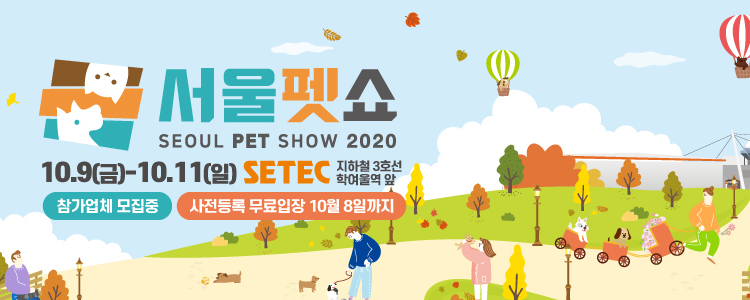
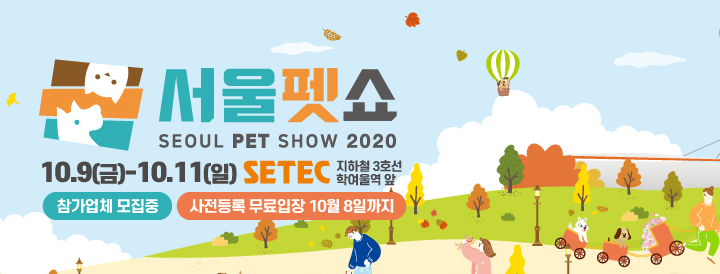
[#55] Enhance UI and modify hsv range 배너 이미지 좀 더 적절하게 교체했습니다.
이름 Petsome 에서 Catmate로 변경했습니다.

hsv 범위 재 설정 했습니다.(200 < h < 300)

colorpicker 컴포넌트 indicator 화면에 catalog 추가했습니다.

diff --git a/FE/src/components/screens/ColorPickerScreen/index.js b/FE/src/components/screens/ColorPickerScreen/index.js
@@ -6,6 +6,7 @@ import {
   TouchableOpacity,
   ActivityIndicator,
   Platform,
+  Image,
 } from 'react-native';
 
 import { Camera } from 'expo-camera';
@@ -93,7 +94,7 @@ export default function ColorPickerScreen() {
     // 330 < Red, Orange, Yellow < 60 | 60 < Green < 150 | 150 < Blue < 270 | 270 < PurPle < 330
     // white: R > 217, G > 217, B > 217
     // black: R + G + B <= 64
-    if (h > 150 || h < 330) {
+    if (h > 200 && h < 300) {
       setNone(false);
       return 2;
     }
@@ -154,7 +155,7 @@ export default function ColorPickerScreen() {
           },
           method: 'POST',
           body,
-        },
+        }
       );
 
       const responseJson = await response.json();
@@ -168,7 +169,7 @@ export default function ColorPickerScreen() {
                 x: rgb2hsv(
                   value.color.red,
                   value.color.green,
-                  value.color.blue,
+                  value.color.blue
                 ),
                 y: 1,
               },
@@ -177,10 +178,10 @@ export default function ColorPickerScreen() {
             return rgbToHex(
               value.color.red,
               value.color.green,
-              value.color.blue,
+              value.color.blue
             );
-          },
-        ),
+          }
+        )
       );
 
       console.log('Upload Done\n\n');
@@ -238,7 +239,24 @@ export default function ColorPickerScreen() {
           ),
           [LOADING_SCREEN]: (
             <Container>
-              <ActivityIndicator color="black" size="large" />
+              <View
+                style={{ fles: 1}}
+              >
+                <ActivityIndicator
+                  style={{ zIndex: 1,top:165, relative: 'absolute' }}
+                  color="black"
+                  size="large"
+                />
+                <Image
+                  style={{
+                    relative: 'absolute',
+                    zIndex: 0,
+                    width: 300,
+                    height: 300,
+                  }}
+                  source={require('../../assets/catalog.png')}
+                />
+              </View>
             </Container>
           ),
           [FINAL_SCREEN]: (

diff --git a/FE/src/components/navigation/MainStackNavigator.js b/FE/src/components/navigation/MainStackNavigator.js
@@ -79,7 +79,7 @@ export default function MainStackNavigator({ navigation }) {
   const headerTitle = () => (
     <HeaderTitle onPress={() => fireFireworks()}>
       {Platform.OS === 'web' && fireworks ? <Fireworks {...fxProps} /> : <></>}
-      <HeaderTitleText>Petsome</HeaderTitleText>
+      <HeaderTitleText>Catmate</HeaderTitleText>
     </HeaderTitle>
   );
 
@@ -96,7 +96,7 @@ export default function MainStackNavigator({ navigation }) {
       }}
     >
       <Stack.Screen
-        name="Petsome"
+        name="Catmate"
         component={HomeTabNavigator}
         options={{
           headerLeft: headerLeftMock,

diff --git a/FE/src/components/screens/LoginScreen/TopText.js b/FE/src/components/screens/LoginScreen/TopText.js
@@ -6,7 +6,7 @@ export default function TopText() {
     <HeaderText>
       안녕하세요,
       {'\n'}
-      🐈 건강지킴이 Petsome 입니다.
+      🐈 건강지킴이 Catmate 입니다.
     </HeaderText>
   );
 }

diff --git a/FE/src/components/screens/LoginScreen/index.js b/FE/src/components/screens/LoginScreen/index.js
@@ -58,7 +58,7 @@ export default function LoginScreen({ navigation }) {
 
   return (
     <LoginView>
-      <Logo>Petsome</Logo>
+      <Logo>Catmate</Logo>
       <Header>
         <TopText />
       </Header>
